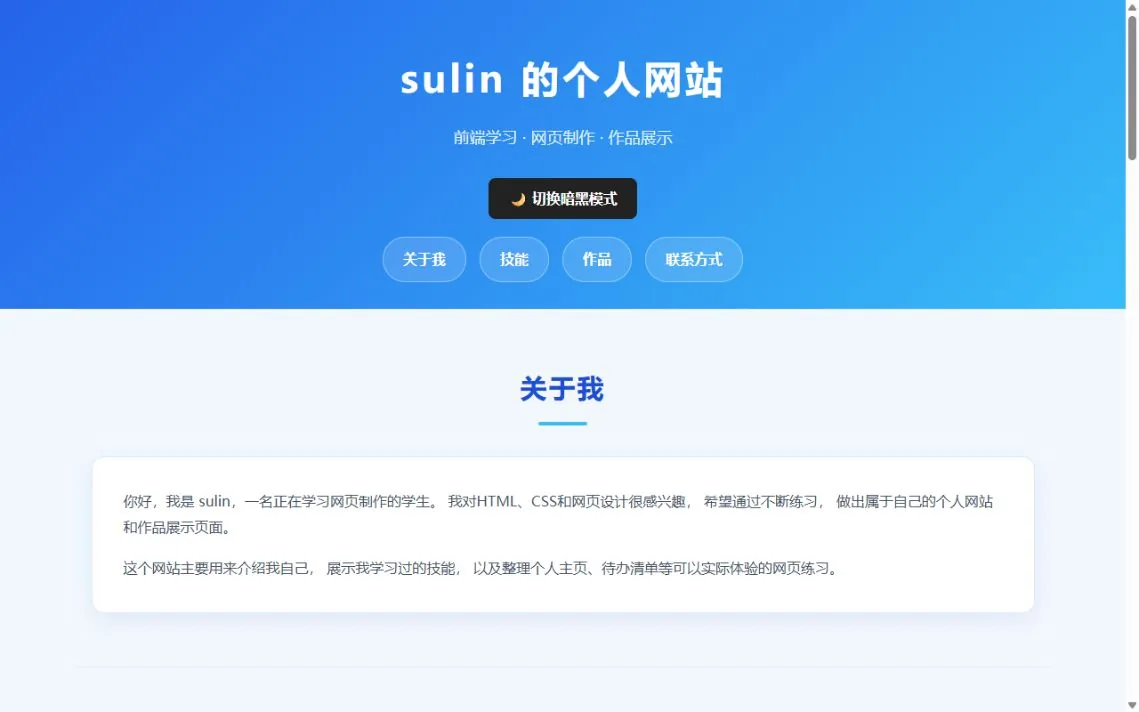
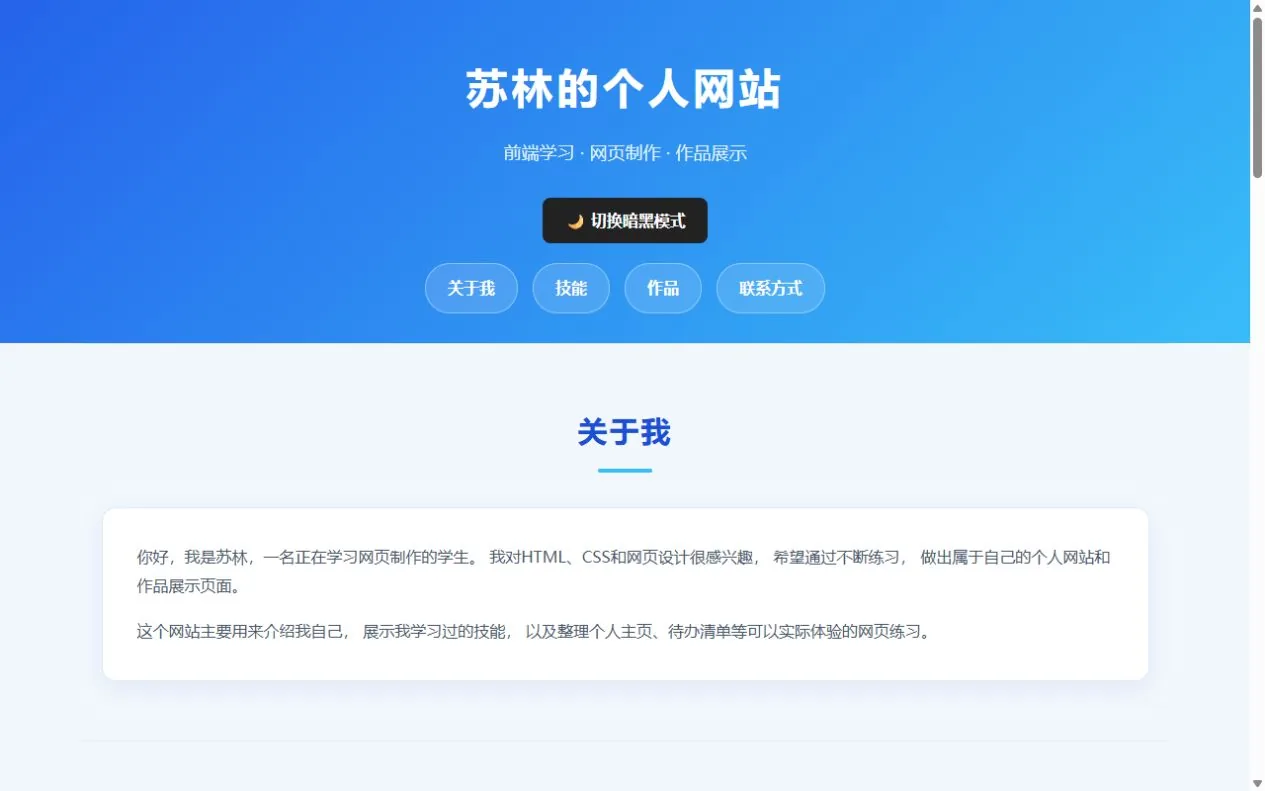
Use 苏林 as the portfolio display name

diff --git a/index.html b/index.html
@@ -8,35 +8,35 @@
 
     <meta
         name="description"
-        content="sulin 的个人网站，记录 HTML、CSS 和 JavaScript 前端学习，展示个人主页与待办清单网页项目，并提供作品演示和 GitHub 主页入口。">
+        content="苏林的个人网站，记录 HTML、CSS 和 JavaScript 前端学习，展示个人主页与待办清单网页项目，并提供作品演示和 GitHub 主页入口。">
 
     <link rel="stylesheet" href="./style.css">
 
-    <title>sulin 的个人网站｜前端学习与网页作品集</title>
-    <meta name="author" content="sulin">
+    <title>苏林的个人网站｜前端学习与网页作品集</title>
+    <meta name="author" content="苏林">
     <link rel="canonical" href="https://sulin1122.github.io/">
     <meta property="og:type" content="website">
     <meta property="og:locale" content="zh_CN">
-    <meta property="og:site_name" content="sulin 的个人网站">
-    <meta property="og:title" content="sulin 的个人网站｜前端学习与网页作品集">
-    <meta property="og:description" content="sulin 的个人网站，记录 HTML、CSS 和 JavaScript 前端学习，展示个人主页与待办清单网页项目，并提供作品演示和 GitHub 主页入口。">
+    <meta property="og:site_name" content="苏林的个人网站">
+    <meta property="og:title" content="苏林的个人网站｜前端学习与网页作品集">
+    <meta property="og:description" content="苏林的个人网站，记录 HTML、CSS 和 JavaScript 前端学习，展示个人主页与待办清单网页项目，并提供作品演示和 GitHub 主页入口。">
     <meta property="og:url" content="https://sulin1122.github.io/">
     <meta property="og:image" content="https://sulin1122.github.io/images/social-preview.jpg">
-    <meta property="og:image:alt" content="sulin 个人网站首页预览">
+    <meta property="og:image:alt" content="苏林个人网站首页预览">
     <meta name="twitter:card" content="summary_large_image">
-    <meta name="twitter:title" content="sulin 的个人网站｜前端学习与网页作品集">
-    <meta name="twitter:description" content="sulin 的个人网站，记录 HTML、CSS 和 JavaScript 前端学习，展示个人主页与待办清单网页项目，并提供作品演示和 GitHub 主页入口。">
+    <meta name="twitter:title" content="苏林的个人网站｜前端学习与网页作品集">
+    <meta name="twitter:description" content="苏林的个人网站，记录 HTML、CSS 和 JavaScript 前端学习，展示个人主页与待办清单网页项目，并提供作品演示和 GitHub 主页入口。">
     <meta name="twitter:image" content="https://sulin1122.github.io/images/social-preview.jpg">
     <script type="application/ld+json">
 {
     "@context": "https://schema.org",
     "@type": "ProfilePage",
     "url": "https://sulin1122.github.io/",
-    "name": "sulin 的个人网站｜前端学习与网页作品集",
+    "name": "苏林的个人网站｜前端学习与网页作品集",
     "inLanguage": "zh-CN",
     "mainEntity": {
         "@type": "Person",
-        "name": "sulin",
+        "name": "苏林",
         "identifier": "sulin1122",
         "url": "https://sulin1122.github.io/",
         "sameAs": [
@@ -155,7 +155,7 @@
 <body>
     <header>
         <h1 id="para1">
-            sulin 的个人网站
+            苏林的个人网站
         </h1>
 
         <p class="center" id="welcome">
@@ -194,7 +194,7 @@
 
             <div class="content-box">
                 <p>
-                    你好，我是 sulin，一名正在学习网页制作的学生。
+                    你好，我是苏林，一名正在学习网页制作的学生。
                     我对HTML、CSS和网页设计很感兴趣，
                     希望通过不断练习，
                     做出属于自己的个人网站和作品展示页面。
@@ -261,8 +261,8 @@
                     <h3>作品一：个人主页</h3>
                     <figure class="project-figure">
                         <img src="./images/home-preview.webp" class="work-image project-preview"
-                             alt="sulin 个人主页截图，展示分区导航与个人介绍"
-                             width="1139" height="712" loading="lazy" decoding="async">
+                             alt="苏林个人主页截图，展示分区导航与个人介绍"
+                             width="1265" height="791" loading="lazy" decoding="async">
                         <figcaption>当前网站的实际页面预览</figcaption>
                     </figure>
                     <p>通过个人介绍、技能卡片、作品展示和联系入口，练习完整网页的结构与布局。</p>
@@ -321,7 +321,7 @@
             <div class="content-box contact-card">
                 <p>欢迎查看我的学习项目和代码，了解我的网页制作练习。</p>
                 <p class="padding">GitHub：<a href="https://github.com/sulin1122"
-                    target="_blank" rel="noopener noreferrer">sulin1122 的 GitHub 主页</a></p>
+                    target="_blank" rel="noopener noreferrer">苏林的 GitHub 主页</a></p>
                 <div class="project-links">
                     <a class="project-link" href="https://github.com/sulin1122"
                        target="_blank" rel="noopener noreferrer">访问我的 GitHub</a>
@@ -334,7 +334,7 @@
 
     <footer>
         <p class="section-title">
-            © 2026 sulin · 前端学习与网页作品集
+            © 2026 苏林 · 前端学习与网页作品集
         </p>
     </footer>
 

diff --git a/1.html b/1.html
@@ -10,9 +10,9 @@
     <meta name="viewport" content="width=device-width, initial-scale=1.0">
 
     <!-- 浏览器标签页标题 -->
-    <title>我的待办清单｜sulin 的 JavaScript 网页练习</title>
-    <meta name="description" content="sulin 的 JavaScript 待办清单练习，支持添加任务、标记完成、删除任务和统计剩余事项。">
-    <meta name="author" content="sulin">
+    <title>我的待办清单｜苏林的 JavaScript 网页练习</title>
+    <meta name="description" content="苏林的 JavaScript 待办清单练习，支持添加任务、标记完成、删除任务和统计剩余事项。">
+    <meta name="author" content="苏林">
     <link rel="canonical" href="https://sulin1122.github.io/1.html">
 
     <style>
@@ -262,7 +262,7 @@
 
         <!-- 导航栏 -->
         <nav aria-label="待办清单导航">
-            <a href="./index.html">sulin 的个人网站</a>
+            <a href="./index.html">苏林的个人网站</a>
             <a href="#header">待办清单</a>
             <a href="./index.html#works">网页作品</a>
             <a href="./index.html#contact">联系与交流</a>
